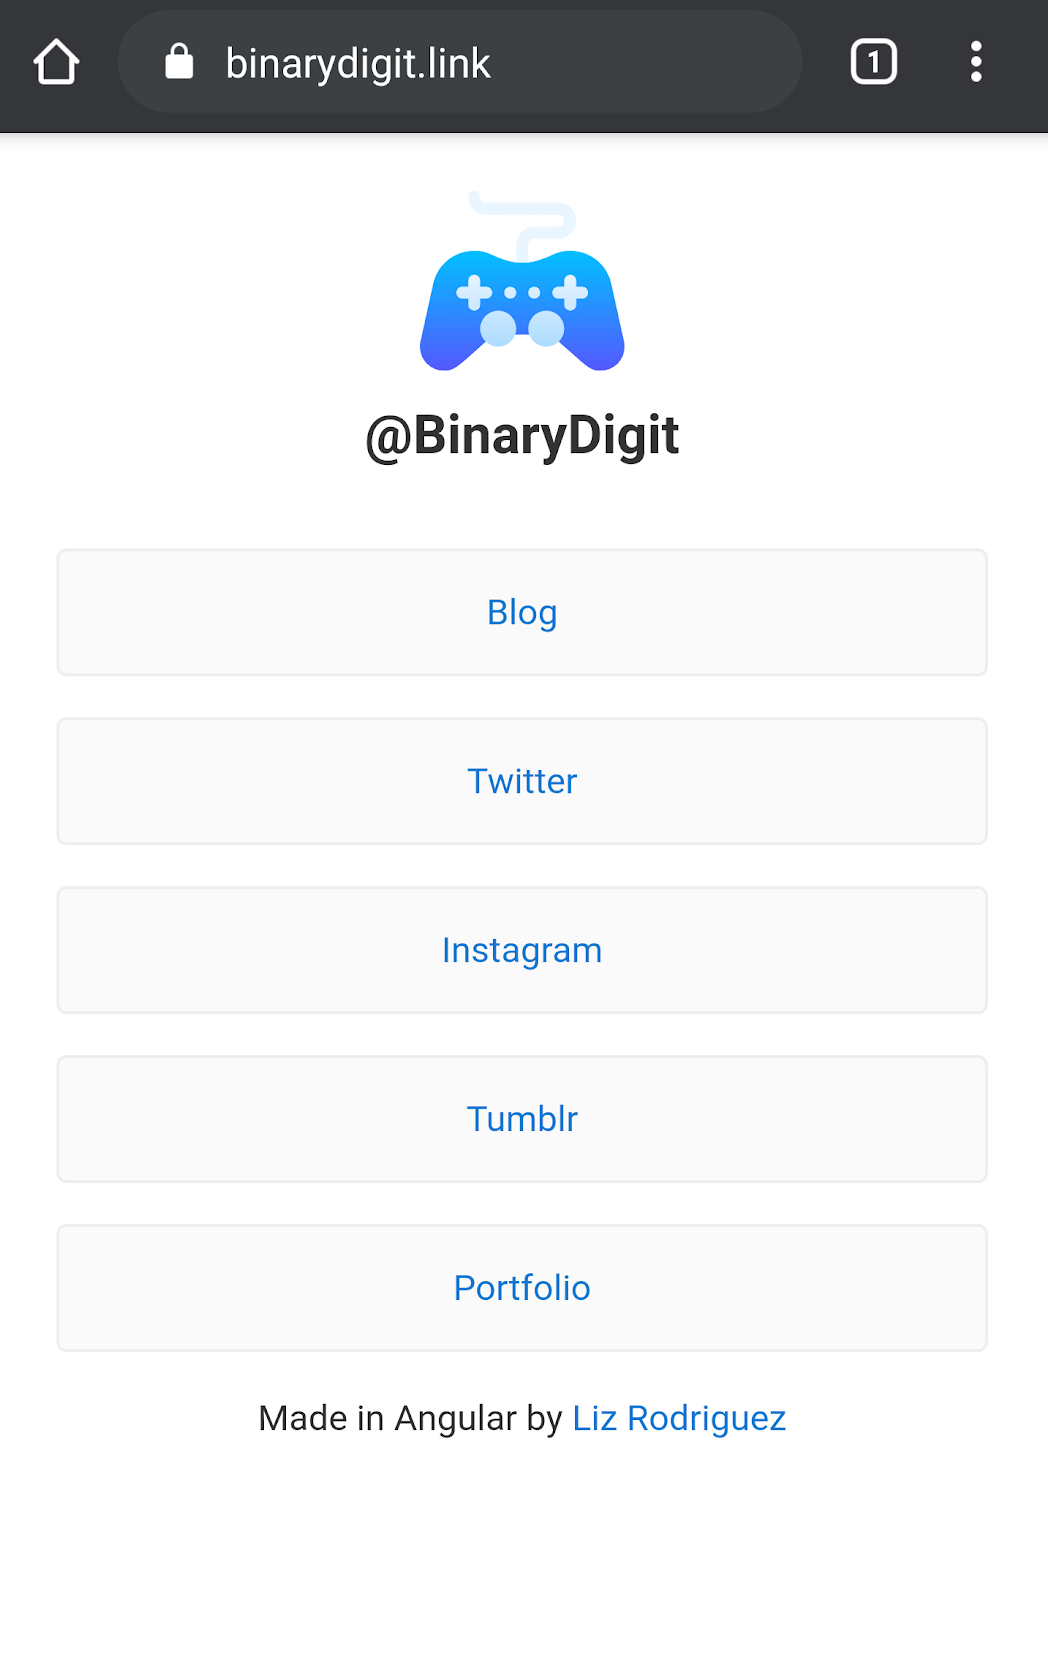
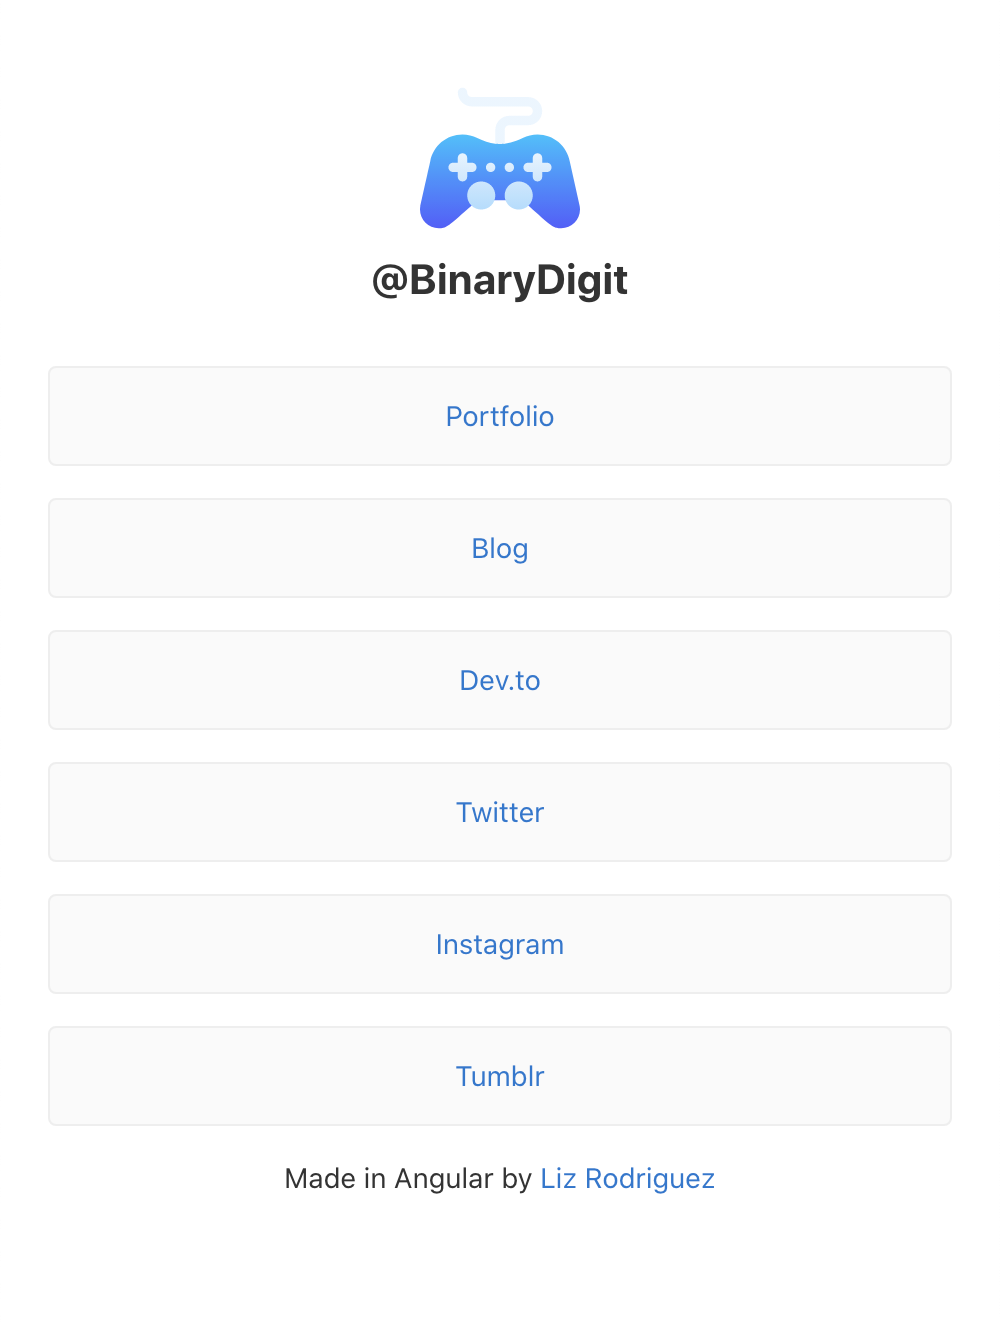
add more cards

diff --git a/src/app/app.component.html b/src/app/app.component.html
@@ -1,32 +1,15 @@
 
-<!-- Toolbar -->
-<!-- <div class="toolbar" role="banner">
-  <img
-    width="40"
-    alt="Logo"
-    src="../assets/img/b-logo.png"
-  />
-  <span>BinaryDigit</span>
-    <div class="spacer"></div>
-    <a aria-label="BinaryDigit on Twitter" target="_blank" rel="noopener" href="https://twitter.com/BinaryDigit" title="Twitter">
-      <svg id="twitter-logo" height="24" data-name="Logo" xmlns="http://www.w3.org/2000/svg" viewBox="0 0 400 400">
-        <rect width="400" height="400" fill="none"/>
-        <path d="M153.62,301.59c94.34,0,145.94-78.16,145.94-145.94,0-2.22,0-4.43-.15-6.63A104.36,104.36,0,0,0,325,122.47a102.38,102.38,0,0,1-29.46,8.07,51.47,51.47,0,0,0,22.55-28.37,102.79,102.79,0,0,1-32.57,12.45,51.34,51.34,0,0,0-87.41,46.78A145.62,145.62,0,0,1,92.4,107.81a51.33,51.33,0,0,0,15.88,68.47A50.91,50.91,0,0,1,85,169.86c0,.21,0,.43,0,.65a51.31,51.31,0,0,0,41.15,50.28,51.21,51.21,0,0,1-23.16.88,51.35,51.35,0,0,0,47.92,35.62,102.92,102.92,0,0,1-63.7,22A104.41,104.41,0,0,1,75,278.55a145.21,145.21,0,0,0,78.62,23" fill="#fff"/>
-      </svg>
-    </a>
-</div> -->
-
 <div class="content" role="main">
   
   <!-- Logo -->
     <svg id="Capa_1" enable-background="new 0 0 512 512" height="80" viewBox="0 0 512 512" width="512" xmlns="http://www.w3.org/2000/svg" xmlns:xlink="http://www.w3.org/1999/xlink"><linearGradient id="SVGID_1_" gradientUnits="userSpaceOnUse" x1="256" x2="256" y1="481" y2="181"><stop offset="0" stop-color="#5558ff"/><stop offset="1" stop-color="#00c0ff"/></linearGradient><linearGradient id="SVGID_2_" gradientUnits="userSpaceOnUse" x1="256" x2="256" y1="421" y2="31"><stop offset="0" stop-color="#addcff"/><stop offset=".5028" stop-color="#eaf6ff"/><stop offset="1" stop-color="#eaf6ff"/></linearGradient><g><g><g><path d="m511.075 410.461c-.038-.21-.079-.419-.125-.627l-31.627-142.616c-9.03-49.98-52.43-86.218-103.323-86.218-16.632 0-32.546 3.78-47.299 11.235-19.459 9.833-38.803 15.821-57.701 17.912l-15-7.147-15 7.146c-18.898-2.091-38.243-8.079-57.704-17.913-14.753-7.453-30.666-11.233-47.296-11.233-50.893 0-94.293 36.238-103.322 86.218 0 0-31.715 143.033-31.753 143.243-.614 3.46-.925 7.005-.925 10.539 0 33.084 26.916 60 60 60 23.428 0 28.949-4.912 81.759-51.901 11.543-10.271 25.7-22.867 43.025-38.099h142.434c17.529 15.411 31.796 28.108 43.43 38.462 52.427 46.661 57.908 51.538 81.352 51.538 33.084 0 60-26.916 60-60 0-3.534-.311-7.079-.925-10.539z" fill="url(#SVGID_1_)"/></g></g><g><g><path d="m196 331c-24.813 0-45 20.187-45 45s20.187 45 45 45 45-20.187 45-45-20.187-45-45-45zm-45-30h15c8.284 0 15-6.716 15-15s-6.716-15-15-15h-15v-15c0-8.284-6.716-15-15-15s-15 6.716-15 15v15h-15c-8.284 0-15 6.716-15 15s6.716 15 15 15h15v15c0 8.284 6.716 15 15 15s15-6.716 15-15zm75-30c-8.284 0-15 6.716-15 15s6.716 15 15 15 15-6.716 15-15-6.716-15-15-15zm90 60c-24.813 0-45 20.187-45 45s20.187 45 45 45 45-20.187 45-45-20.187-45-45-45zm-45-165c0-8.271 6.729-15 15-15h60c24.813 0 45-20.187 45-45s-20.187-45-45-45h-180c-8.271 0-15-6.729-15-15 0-8.284-6.716-15-15-15s-15 6.716-15 15c0 24.813 20.187 45 45 45h180c8.271 0 15 6.729 15 15s-6.729 15-15 15h-60c-24.813 0-45 20.187-45 45v44.146c5.033.557 10.036.854 15 .854s9.967-.296 15-.854zm135 105h-15v-15c0-8.284-6.716-15-15-15s-15 6.716-15 15v15h-15c-8.284 0-15 6.716-15 15s6.716 15 15 15h15v15c0 8.284 6.716 15 15 15s15-6.716 15-15v-15h15c8.284 0 15-6.716 15-15s-6.716-15-15-15zm-135 15c0 8.284 6.716 15 15 15s15-6.716 15-15-6.716-15-15-15-15 6.716-15 15z" fill="url(#SVGID_2_)"/></g></g></g></svg>
 
-
     <h2>@BinaryDigit</h2>
-
 
   <div class="card-container">
    
+      <a a class="card card-small" href="https://binarydigit.io/portfolio/?utm_source=bitlink" target="_blank" rel="noopener">Portfolio</a>
+
       <a class="card card-small" href="https://binarydigit.io/?utm_source=bitlink" target="_blank" rel="noopener">Blog</a>
     
       <a a class="card card-small" href="https://twitter.com/binarydigit/?utm_source=bitlink" target="_blank" rel="noopener">Twitter</a>
@@ -35,17 +18,14 @@
 
       <a a class="card card-small" href="https://binarydigit.tumblr.com/?utm_source=bitlink" target="_blank" rel="noopener">Tumblr</a>
 
-      <a a class="card card-small" href="https://binarydigit.io/portfolio/?utm_source=bitlink" target="_blank" rel="noopener">Portfolio</a>
+      <a class="card card-small" href="https://dev.to/binarydigit/?utm_source=bitlink" target="_blank" rel="noopener">Dev.to</a>
 
   </div>
-
 
   <!-- Footer -->
   <footer>
       Made in Angular by&nbsp;
-      <a href="https://github.com/lizrodriguez/binarydigit" target="_blank" rel="noopener">Liz Rodriguez
-      </a>
-      
+      <a href="https://github.com/lizrodriguez/binarylink" target="_blank" rel="noopener">Liz Rodriguez</a>
   </footer>
 
 

diff --git a/src/app/app.component.css b/src/app/app.component.css
@@ -55,7 +55,7 @@
     display: flex;
     margin: 82px auto 32px;
     padding: 0 16px;
-    max-width: 960px;
+    max-width: 600px;
     flex-direction: column;
     align-items: center;
   }

diff --git a/README.md b/README.md
@@ -1,2 +1,4 @@
 # BinaryDigit.link
 ## A linktree clone made with Angular
+
+![screenshot](https://raw.githubusercontent.com/lizrodriguez/binarylink/main/screenshot.png "screenshot")
